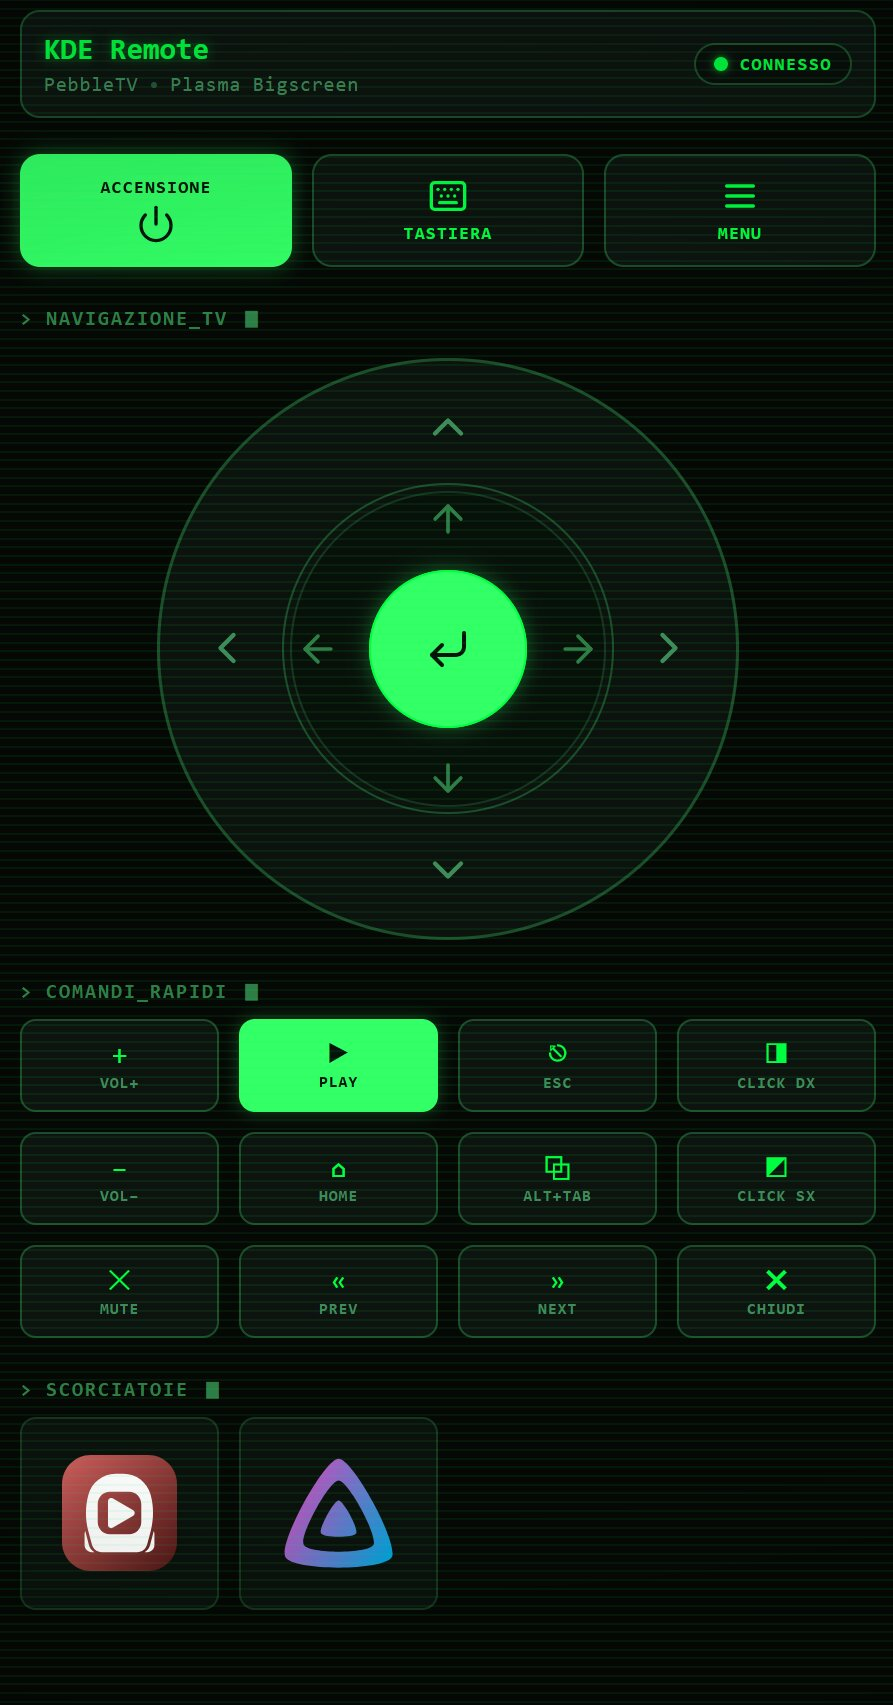
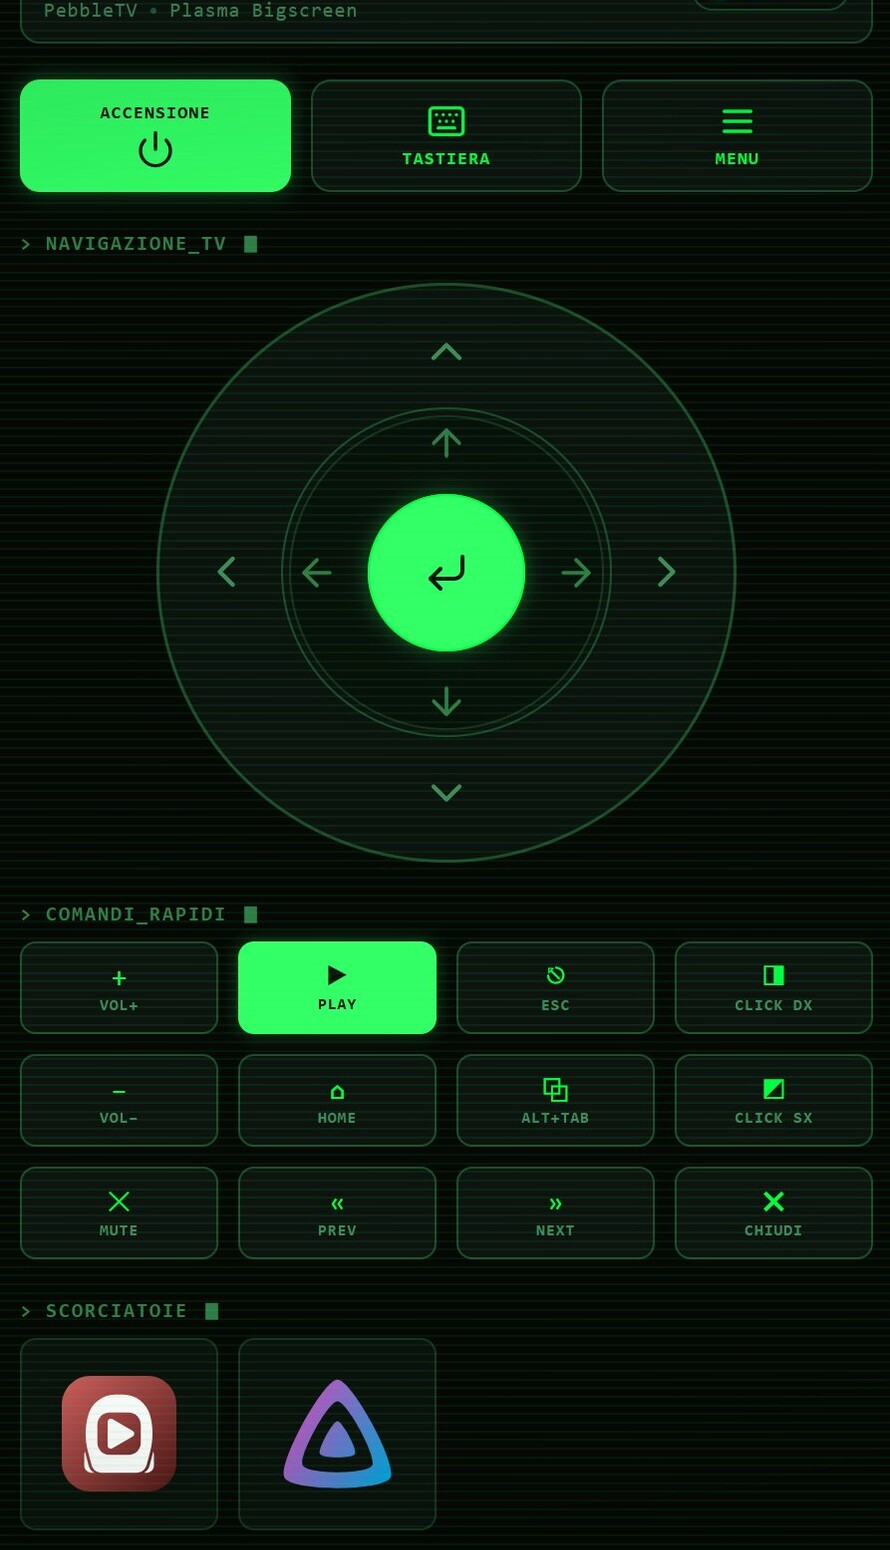
photos: allinea le verticali e ripulisci i duplicati caricati

diff --git a/photo/README.md b/photo/README.md
@@ -1,13 +1,25 @@
 # Foto del README
 
-Il README mostra una galleria di tre immagini:
+Il README mostra le due verticali affiancate e quella orizzontale sotto,
+a tutta larghezza.
 
-| File | Formato | Posizione |
+| File | Dimensione | Posizione |
 | --- | --- | --- |
-| `homekde.jpg` | verticale (1177x2560) | in alto a sinistra |
-| `keyboardkde.jpg` | verticale (1177x2560) | in alto a destra |
-| `pckde.jpg` | orizzontale | sotto, a tutta larghezza |
+| `homekde.jpg` | 890x1550 | in alto a sinistra |
+| `keyboardkde.jpg` | 890x1550 | in alto a destra |
+| `pckde.jpg` | 2849x1780 | sotto, a tutta larghezza |
 
-`pckde.jpg` è un segnaposto: sostituiscilo con la foto del PC mantenendo
-lo stesso nome di file. Se vuoi cambiare anche le due verticali, mantieni
-gli stessi nomi così il README non va modificato.
+Le due verticali **devono avere la stessa dimensione**, altrimenti nel
+README non si allineano. Se le sostituisci, esegui dalla root del repo:
+
+```sh
+./photo/normalize-verticals.sh
+```
+
+Lo script richiede ImageMagick e porta entrambe a 890x1550 con ritaglio
+centrale, senza deformarle. Per la foto del PC mantieni il nome
+`pckde.jpg`: la proporzione orizzontale è già corretta.
+
+Nel README gli URL delle immagini hanno un parametro `?v=...` per evitare
+la cache di GitHub: aggiornalo se la homepage non mostra subito la foto
+nuova.

diff --git a/README.md b/README.md
@@ -3,10 +3,10 @@
 Prima stesura focalizzata su CachyOS + KDE Plasma + Wayland.
 
 <p align="center">
-  <img src="photo/homekde.jpg" alt="Home KDE Media Remote" width="48%" />
-  <img src="photo/keyboardkde.jpg" alt="Keyboard KDE Media Remote" width="48%" />
+  <img src="photo/homekde.jpg?v=20261118" alt="Home KDE Media Remote" width="48%" />
+  <img src="photo/keyboardkde.jpg?v=20261118" alt="Keyboard KDE Media Remote" width="48%" />
   <br />
-  <img src="photo/pckde.jpg" alt="PC KDE Media Remote" width="100%" />
+  <img src="photo/pckde.jpg?v=20261118" alt="PC KDE Media Remote" width="100%" />
 </p>
 
 ## Architettura
